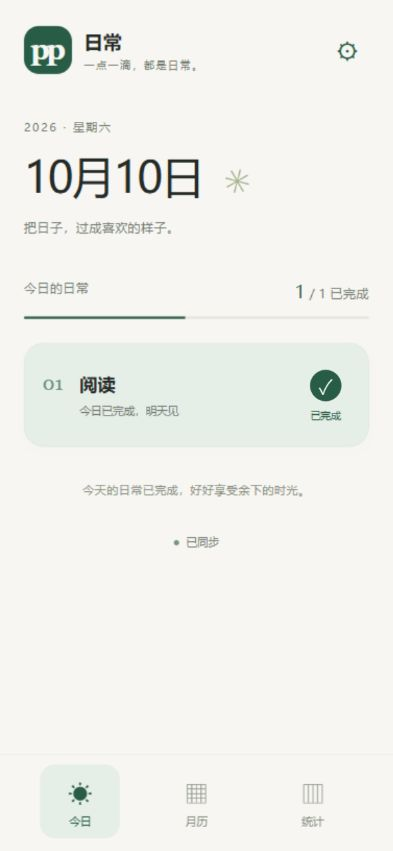
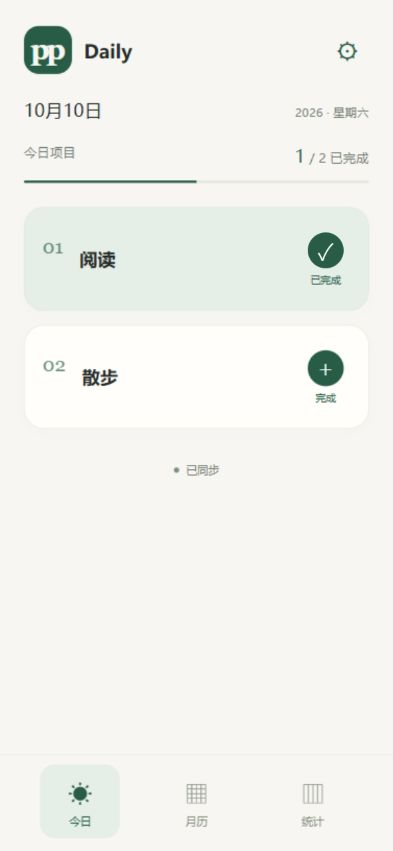
refactor: simplify pages and rename app to pp Daily

diff --git a/frontend/src/style.css b/frontend/src/style.css
@@ -1,4 +1,4 @@
-:root{font-family:-apple-system,BlinkMacSystemFont,"PingFang SC","Microsoft YaHei",sans-serif;color:#252a27;background:#f7f6f2;font-synthesis:none;--green:#285c47;--muted:#747d73;--line:#e5e7df}*{box-sizing:border-box}body{margin:0}button,input,select{font:inherit}button,a,label.file-button{-webkit-tap-highlight-color:transparent}button{cursor:pointer;border:1px solid var(--line);border-radius:12px;background:transparent;color:var(--green);padding:10px 14px;min-height:44px}button:disabled{cursor:default;opacity:.5}button:focus-visible,a:focus-visible,input:focus-visible,select:focus-visible{outline:3px solid #be9b60;outline-offset:3px}button:hover:not(:disabled){background:#e5eee7}h1,h2,p{margin:0}h2{font-size:18px;font-weight:600}a{color:inherit;text-decoration:none}.app-shell{max-width:560px;margin:auto;padding:calc(26px + env(safe-area-inset-top)) 24px calc(112px + env(safe-area-inset-bottom));min-height:100dvh}.brand{display:flex;justify-content:space-between;align-items:center;margin-bottom:46px}.brand a{display:flex;gap:12px;align-items:center;font-size:19px;font-weight:600}.mark{width:48px;height:48px;display:grid;place-items:center;background:var(--green);color:#f7f6f2;border-radius:15px;font-family:Georgia,serif;font-size:29px;letter-spacing:-3px;padding-right:3px}.brand-note{display:block;font-size:10px;letter-spacing:2px;font-weight:400;color:var(--muted);margin-top:4px}.icon-button{border:none;font-size:26px;padding:4px;min-width:44px}.eyebrow{font-size:11px;letter-spacing:2px;color:var(--muted);margin-bottom:12px}.date-heading h1{font-size:44px;font-weight:500;letter-spacing:-2px}.little-leaf{font-size:33px;color:#a4b18a;margin-left:20px;display:inline-block;transform:rotate(15deg)}.subtle{color:var(--muted);font-size:13px;line-height:1.8}.date-heading .subtle{margin-top:12px}.progress-note{margin-top:40px;display:flex;justify-content:space-between;font-size:13px;color:var(--muted)}.progress-note b{color:var(--green);font-size:18px;font-weight:500}.progress-line{height:3px;background:var(--line);margin:13px 0 24px;border-radius:5px;overflow:hidden}.progress-line i{height:100%;display:block;background:var(--green);transition:width .3s}.daily-list{display:grid;gap:14px}.habit-card{display:flex;gap:16px;align-items:center;background:#fffefa;border:1px solid #e9e9df;border-radius:20px;padding:23px 18px;min-height:104px;box-shadow:0 4px 12px #28382b03;transition:background .2s}.habit-card.completed{background:#e5eee7;border-color:#dce7dd}.habit-number{font-family:Georgia,serif;font-size:20px;color:var(--habit-color);opacity:.7;align-self:flex-start;padding-top:4px}.habit-title{flex:1;min-width:0}.habit-title h2{overflow-wrap:anywhere}.habit-title p{color:var(--muted);font-size:11px;margin-top:8px}.complete-button{border:none;color:var(--green);display:flex;flex-direction:column;align-items:center;gap:5px;padding:0 4px;font-size:10px;min-width:50px}.complete-button span{background:var(--habit-color);color:white;border-radius:50%;display:grid;place-items:center;width:36px;height:36px;font-size:23px;font-weight:300}.complete-button:disabled{opacity:1}.completed .complete-button span{animation:check .25s ease}.end-note{text-align:center;font-size:12px;color:#8a9184;line-height:1.9;margin:32px 0}.sync-status{font-size:11px;color:var(--muted);display:flex;gap:7px;align-items:center;justify-content:center;margin-top:34px;overflow-wrap:anywhere}.sync-status i{width:5px;height:5px;background:#79957b;border-radius:100%;flex-shrink:0}.sync-status i.offline{background:#b38d54}nav{position:fixed;bottom:0;left:50%;transform:translateX(-50%);width:100%;max-width:560px;background:#f7f6f2f5;border-top:1px solid var(--line);display:flex;justify-content:space-around;padding:10px 22px calc(13px + env(safe-area-inset-bottom));backdrop-filter:blur(12px)}nav button{display:flex;flex-direction:column;align-items:center;border:none;font-size:11px;color:#8a9184;gap:5px;width:80px;min-height:58px}nav button span{font-size:24px;font-weight:300}nav button.selected{color:var(--green);background:#e5eee7;border-radius:15px}.page-heading{margin-bottom:30px}.page-heading h1{font-size:29px;font-weight:500;margin-bottom:12px}.selector{font-size:12px;color:var(--muted);display:block;margin-bottom:20px}select{appearance:auto;display:block;width:100%;padding:13px 16px;border:1px solid var(--line);border-radius:14px;background:#fffefa;color:var(--green);font-size:16px;margin-top:8px}.calendar-paper,.management-paper{background:#fffefa;border:1px solid var(--line);border-radius:22px;padding:20px;margin-bottom:18px}.month-heading{display:flex;justify-content:space-between;align-items:center;margin-bottom:22px}.month-heading h2{font-size:17px}.calendar-grid{display:grid;grid-template-columns:repeat(7,minmax(0,1fr));gap:8px 4px}.weekdays{margin-bottom:14px;text-align:center;font-size:11px;color:var(--muted)}.day-cell{position:relative;aspect-ratio:1;display:grid;place-items:center;font-size:14px;border:1px solid #e5e7df;border-radius:50%;margin:2px;color:#667366}.day-cell:has(span:empty){border:0}.day-cell.checked{background:var(--green);color:#fff;border-color:var(--green)}.day-cell.muted{border-color:transparent;color:#c5c8bf}.day-cell.today{outline:1px solid #b28d5a;outline-offset:2px}.day-cell small{position:absolute;bottom:1px;font-size:8px}.legend{display:flex;justify-content:center;gap:16px;font-size:10px;color:var(--green);margin-top:24px}.stats-grid{display:grid;grid-template-columns:1fr 1fr;gap:14px}.stats-grid article{padding:25px 18px;background:#fffefa;border:1px solid var(--line);border-radius:20px}.stats-grid article:nth-child(3){background:#e5eee7}.stats-grid p{font-size:12px;color:var(--muted)}.stats-grid strong{font-family:Georgia,serif;font-size:46px;font-weight:400;color:var(--green);display:block;margin:15px 0 12px}.stats-grid small{font-family:inherit;font-size:12px;margin-left:8px}.stats-grid span{font-size:10px;color:var(--muted)}.management-paper h2{margin-bottom:18px}.management-paper h2 small{font-size:12px;color:var(--muted);margin-left:8px}form label{display:block;color:var(--muted);font-size:12px;margin-bottom:15px}input:not([type=color]):not([type=file]){width:100%;display:block;margin-top:8px;padding:13px;background:var(--bg);border:1px solid var(--line);border-radius:12px;color:#252a27;font-size:16px}.color-row{display:flex;justify-content:space-between;align-items:center}input[type=color]{width:60px;height:36px;border:none;background:none}.primary{background:var(--green);color:white;width:100%;margin-bottom:12px}.small{font-size:11px;margin-top:12px}.project-row{border-top:1px solid var(--line);padding:16px 0;display:flex;flex-direction:column;gap:10px}.project-row>div{display:flex;align-items:center;gap:8px}.project-row b{font-size:14px;overflow-wrap:anywhere}.project-row small{color:var(--muted);font-size:11px}.color-dot{width:9px;height:9px;border-radius:50%;flex-shrink:0}.row-actions{justify-content:flex-end}.row-actions button{padding:6px 10px;font-size:12px}.backup-actions{display:flex;gap:10px;margin-top:18px;flex-wrap:wrap}.backup-actions button,.file-button{font-size:12px}.file-button{border:1px solid var(--line);border-radius:12px;display:flex;align-items:center;padding:10px 14px;min-height:44px;position:relative;overflow:hidden;cursor:pointer}.file-button input{position:absolute;inset:0;opacity:0;width:100%;cursor:pointer}.notice,.error{background:#f5e8d5;color:#77532d;border-radius:15px;padding:16px;font-size:13px;margin-bottom:20px}.notice p{margin:8px 0}.notice button{margin:4px;font-size:12px}.empty{text-align:center;padding:50px 12px}.empty>span{color:#a4b18a;font-size:42px}.empty h2{margin:16px 0}.empty p{color:var(--muted);font-size:13px;margin-bottom:20px}@keyframes check{from{transform:scale(.7)}to{transform:scale(1)}}@media(max-width:370px){.app-shell{padding-left:16px;padding-right:16px}.habit-card{gap:12px;padding:20px 14px}.calendar-paper{padding:15px}.stats-grid article{padding:22px 14px}.day-cell{font-size:12px}}@media(prefers-reduced-motion:reduce){*{animation:none!important;transition:none!important}}
+:root{font-family:-apple-system,BlinkMacSystemFont,"PingFang SC","Microsoft YaHei",sans-serif;color:#252a27;background:#f7f6f2;font-synthesis:none;--green:#285c47;--muted:#747d73;--line:#e5e7df}*{box-sizing:border-box}body{margin:0}button,input,select{font:inherit}button,a,label.file-button{-webkit-tap-highlight-color:transparent}button{cursor:pointer;border:1px solid var(--line);border-radius:12px;background:transparent;color:var(--green);padding:10px 14px;min-height:44px}button:disabled{cursor:default;opacity:.5}button:focus-visible,a:focus-visible,input:focus-visible,select:focus-visible{outline:3px solid #be9b60;outline-offset:3px}button:hover:not(:disabled){background:#e5eee7}h1,h2,p{margin:0}h2{font-size:18px;font-weight:600}a{color:inherit;text-decoration:none}.app-shell{max-width:560px;margin:auto;padding:calc(26px + env(safe-area-inset-top)) 24px calc(112px + env(safe-area-inset-bottom));min-height:100dvh}.brand{display:flex;justify-content:space-between;align-items:center;margin-bottom:24px}.brand a{display:flex;gap:12px;align-items:center;font-size:19px;font-weight:600}.mark{width:48px;height:48px;display:grid;place-items:center;background:var(--green);color:#f7f6f2;border-radius:15px;font-family:Georgia,serif;font-size:29px;letter-spacing:-3px;padding-right:3px}.icon-button{border:none;font-size:26px;padding:4px;min-width:44px}.date-heading{display:flex;align-items:baseline;justify-content:space-between;gap:12px}.date-heading h1{font-size:18px;font-weight:500;letter-spacing:0}.subtle{color:var(--muted);font-size:13px;line-height:1.8}.date-heading .subtle{font-size:12px;white-space:nowrap}.progress-note{margin-top:20px;display:flex;justify-content:space-between;font-size:13px;color:var(--muted)}.progress-note b{color:var(--green);font-size:18px;font-weight:500}.progress-line{height:3px;background:var(--line);margin:13px 0 24px;border-radius:5px;overflow:hidden}.progress-line i{height:100%;display:block;background:var(--green);transition:width .3s}.daily-list{display:grid;gap:14px}.habit-card{display:flex;gap:16px;align-items:center;background:#fffefa;border:1px solid #e9e9df;border-radius:20px;padding:23px 18px;min-height:104px;box-shadow:0 4px 12px #28382b03;transition:background .2s}.habit-card.completed{background:#e5eee7;border-color:#dce7dd}.habit-number{font-family:Georgia,serif;font-size:20px;color:var(--habit-color);opacity:.7;align-self:flex-start;padding-top:4px}.habit-title{flex:1;min-width:0}.habit-title h2{overflow-wrap:anywhere}.complete-button{border:none;color:var(--green);display:flex;flex-direction:column;align-items:center;gap:5px;padding:0 4px;font-size:10px;min-width:50px}.complete-button span{background:var(--habit-color);color:white;border-radius:50%;display:grid;place-items:center;width:36px;height:36px;font-size:23px;font-weight:300}.complete-button:disabled{opacity:1}.completed .complete-button span{animation:check .25s ease}.end-note{text-align:center;font-size:12px;color:#8a9184;line-height:1.9;margin:32px 0}.sync-status{font-size:11px;color:var(--muted);display:flex;gap:7px;align-items:center;justify-content:center;margin-top:34px;overflow-wrap:anywhere}.sync-status i{width:5px;height:5px;background:#79957b;border-radius:100%;flex-shrink:0}.sync-status i.offline{background:#b38d54}nav{position:fixed;bottom:0;left:50%;transform:translateX(-50%);width:100%;max-width:560px;background:#f7f6f2f5;border-top:1px solid var(--line);display:flex;justify-content:space-around;padding:10px 22px calc(13px + env(safe-area-inset-bottom));backdrop-filter:blur(12px)}nav button{display:flex;flex-direction:column;align-items:center;border:none;font-size:11px;color:#8a9184;gap:5px;width:80px;min-height:58px}nav button span{font-size:24px;font-weight:300}nav button.selected{color:var(--green);background:#e5eee7;border-radius:15px}.page-heading{margin-bottom:30px}.page-heading h1{font-size:29px;font-weight:500;margin-bottom:12px}.selector{font-size:12px;color:var(--muted);display:block;margin-bottom:20px}select{appearance:auto;display:block;width:100%;padding:13px 16px;border:1px solid var(--line);border-radius:14px;background:#fffefa;color:var(--green);font-size:16px;margin-top:8px}.calendar-paper,.management-paper{background:#fffefa;border:1px solid var(--line);border-radius:22px;padding:20px;margin-bottom:18px}.month-heading{display:flex;justify-content:space-between;align-items:center;margin-bottom:22px}.month-heading h2{font-size:17px}.calendar-grid{display:grid;grid-template-columns:repeat(7,minmax(0,1fr));gap:8px 4px}.weekdays{margin-bottom:14px;text-align:center;font-size:11px;color:var(--muted)}.day-cell{position:relative;aspect-ratio:1;display:grid;place-items:center;font-size:14px;border:1px solid #e5e7df;border-radius:50%;margin:2px;color:#667366}.day-cell:has(span:empty){border:0}.day-cell.checked{background:var(--green);color:#fff;border-color:var(--green)}.day-cell.muted{border-color:transparent;color:#c5c8bf}.day-cell.today{outline:1px solid #b28d5a;outline-offset:2px}.day-cell small{position:absolute;bottom:1px;font-size:8px}.legend{display:flex;justify-content:center;gap:16px;font-size:10px;color:var(--green);margin-top:24px}.stats-grid{display:grid;grid-template-columns:1fr 1fr;gap:14px}.stats-grid article{padding:25px 18px;background:#fffefa;border:1px solid var(--line);border-radius:20px}.stats-grid article:nth-child(3){background:#e5eee7}.stats-grid p{font-size:12px;color:var(--muted)}.stats-grid strong{font-family:Georgia,serif;font-size:46px;font-weight:400;color:var(--green);display:block;margin:15px 0 12px}.stats-grid small{font-family:inherit;font-size:12px;margin-left:8px}.management-paper h2{margin-bottom:18px}.management-paper h2 small{font-size:12px;color:var(--muted);margin-left:8px}form label{display:block;color:var(--muted);font-size:12px;margin-bottom:15px}input:not([type=color]):not([type=file]){width:100%;display:block;margin-top:8px;padding:13px;background:var(--bg);border:1px solid var(--line);border-radius:12px;color:#252a27;font-size:16px}.color-row{display:flex;justify-content:space-between;align-items:center}input[type=color]{width:60px;height:36px;border:none;background:none}.primary{background:var(--green);color:white;width:100%;margin-bottom:12px}.small{font-size:11px;margin-top:12px}.project-row{border-top:1px solid var(--line);padding:16px 0;display:flex;flex-direction:column;gap:10px}.project-row>div{display:flex;align-items:center;gap:8px}.project-row b{font-size:14px;overflow-wrap:anywhere}.project-row small{color:var(--muted);font-size:11px}.color-dot{width:9px;height:9px;border-radius:50%;flex-shrink:0}.row-actions{justify-content:flex-end}.row-actions button{padding:6px 10px;font-size:12px}.backup-actions{display:flex;gap:10px;margin-top:18px;flex-wrap:wrap}.backup-actions button,.file-button{font-size:12px}.file-button{border:1px solid var(--line);border-radius:12px;display:flex;align-items:center;padding:10px 14px;min-height:44px;position:relative;overflow:hidden;cursor:pointer}.file-button input{position:absolute;inset:0;opacity:0;width:100%;cursor:pointer}.notice,.error{background:#f5e8d5;color:#77532d;border-radius:15px;padding:16px;font-size:13px;margin-bottom:20px}.notice p{margin:8px 0}.notice button{margin:4px;font-size:12px}.empty{text-align:center;padding:50px 12px}.empty h2{margin:16px 0}.empty p{color:var(--muted);font-size:13px;margin-bottom:20px}@keyframes check{from{transform:scale(.7)}to{transform:scale(1)}}@media(max-width:370px){.app-shell{padding-left:16px;padding-right:16px}.habit-card{gap:12px;padding:20px 14px}.calendar-paper{padding:15px}.stats-grid article{padding:22px 14px}.day-cell{font-size:12px}}@media(prefers-reduced-motion:reduce){*{animation:none!important;transition:none!important}}
 :root{--bg:#f7f6f2}
 .app-shell{padding-left:max(24px,env(safe-area-inset-left));padding-right:max(24px,env(safe-area-inset-right))}
 nav{padding-left:max(22px,env(safe-area-inset-left));padding-right:max(22px,env(safe-area-inset-right))}

diff --git a/frontend/src/App.vue b/frontend/src/App.vue
@@ -66,25 +66,24 @@ onUnmounted(() => { clearInterval(timer); window.removeEventListener('online',wa
 
 <template>
   <div class="app-shell">
-    <header class="brand"><a href="#" @click.prevent="page='今日'" aria-label="pp日常首页"><span class="mark">pp</span><span>日常<span class="brand-note">一点一滴，都是日常。</span></span></a><button class="icon-button" @click="page='管理'" aria-label="管理">⚙</button></header>
+    <header class="brand"><a href="#" @click.prevent="page='今日'" aria-label="pp Daily 首页"><span class="mark">pp</span><span>Daily</span></a><button class="icon-button" @click="page='管理'" aria-label="管理">⚙</button></header>
     <main>
       <div v-if="conflict" class="notice"><strong>服务器数据已恢复</strong><p>先保存本地备份，再载入新的服务器数据。</p><button @click="exportLocal">导出本地备份</button><button @click="reset">重新载入</button></div>
       <p v-if="message" class="error" role="alert">{{ message }}</p>
       <template v-if="page==='今日'">
-        <section class="date-heading"><p class="eyebrow">{{ today.slice(0,4) }} · {{ weekday }}</p><h1>{{ dateText }}<span class="little-leaf">✳</span></h1><p class="subtle">把日子，过成喜欢的样子。</p></section>
-        <section class="progress-note"><span>今日的日常</span><span><b>{{ doneCount }}</b> / {{ active.length }} 已完成</span></section>
+        <section class="date-heading"><h1>{{ dateText }}</h1><p class="subtle">{{ today.slice(0,4) }} · {{ weekday }}</p></section>
+        <section class="progress-note"><span>今日项目</span><span><b>{{ doneCount }}</b> / {{ active.length }} 已完成</span></section>
         <div class="progress-line"><i :style="{width:(active.length ? doneCount / active.length * 100 : 0)+'%'}"></i></div>
         <section class="daily-list">
           <article v-for="(p,index) in active" :key="p.id" class="habit-card" :class="{completed:done(p.id)}" :style="{'--habit-color':p.color}">
-            <span class="habit-number">{{ String(index+1).padStart(2,'0') }}</span><div class="habit-title"><h2>{{ p.name }}</h2><p>{{ done(p.id) ? '今日已完成，明天见' : '今天，也为自己做一点' }}</p></div>
+            <span class="habit-number">{{ String(index+1).padStart(2,'0') }}</span><div class="habit-title"><h2>{{ p.name }}</h2></div>
             <button class="complete-button" :disabled="done(p.id) || working || !storageReady || conflict" @click="action(() => complete(p.id))" :aria-label="p.name + (done(p.id) ? '已完成' : '完成')"><span>{{ done(p.id) ? '✓' : '+' }}</span>{{ done(p.id) ? '已完成' : '完成' }}</button>
           </article>
         </section>
-        <section v-if="!active.length" class="empty"><span>✳</span><h2>从一件小事开始</h2><p>创建你的第一个日常项目。</p><button @click="page='管理'">添加项目</button></section>
-        <p v-else class="end-note">{{ doneCount === active.length ? '今天的日常已完成，好好享受余下的时光。' : '不用赶路，每天一点就好。' }}</p>
+        <section v-if="!active.length" class="empty"><h2>暂无项目</h2><p>创建你的第一个日常项目。</p><button @click="page='管理'">添加项目</button></section>
       </template>
       <template v-else-if="page==='月历' || page==='统计'">
-        <section class="page-heading"><p class="eyebrow">{{ page==='月历' ? 'DAY BY DAY' : 'LITTLE THINGS ADD UP' }}</p><h1>{{ page==='月历' ? '日子留下的痕迹' : '每一天，都算数' }}</h1><p class="subtle">{{ page==='月历' ? '回看一件事，慢慢成为日常。' : '小小的坚持，也值得被看见。' }}</p></section>
+        <section class="page-heading"><h1>{{ page }}</h1></section>
         <label class="selector">选择项目<select :value="project?.id || ''" @change="selected=($event.target as HTMLSelectElement).value" aria-label="选择项目"><option v-if="!projects.length" value="">暂无项目</option><option v-for="p in projects" :key="p.id" :value="p.id">{{ p.name }}{{ p.archived ? ' · 已归档' : '' }}</option></select></label>
         <section v-if="project && page==='月历'" class="calendar-paper">
           <div class="month-heading"><button class="icon-button" @click="shiftMonth(-1)" aria-label="上个月">‹</button><h2>{{ Number(month.slice(0,4)) }} 年 {{ Number(month.slice(5,7)) }} 月</h2><button class="icon-button" @click="shiftMonth(1)" aria-label="下个月">›</button></div>
@@ -92,15 +91,15 @@ onUnmounted(() => { clearInterval(timer); window.removeEventListener('online',wa
           <div class="calendar-grid"><div v-for="(day,index) in cells" :key="index" class="day-cell" :class="{checked:day && done(project.id,day), muted:day && !applicable(day), today:day===today}" :aria-label="day ? day + (done(project.id,day) ? ' 已完成' : applicable(day) ? ' 未完成' : ' 不适用') : day"><span>{{ day ? Number(day.slice(8)) : '' }}</span><small v-if="day && done(project.id,day)">✓</small></div></div>
           <div class="legend"><span>● 已完成</span><span>○ 未完成</span><span class="subtle">— 不适用</span></div>
         </section>
-        <section v-if="project && page==='统计'" class="stats-grid"><article v-for="(label,index) in statLabels" :key="label"><p>{{ label }}</p><strong>{{ stats[index] }}<small>天</small></strong><span>{{ ['每一步，都有留下','这个月的日常','慢慢来，继续就好','属于你的坚持'][index] }}</span></article></section>
+        <section v-if="project && page==='统计'" class="stats-grid"><article v-for="(label,index) in statLabels" :key="label"><p>{{ label }}</p><strong>{{ stats[index] }}<small>天</small></strong></article></section>
         <p v-if="project && page==='统计'" class="end-note">今天未完成时，当前连续天数算到昨天。<br>归档项目算到归档当天。</p>
         <p v-if="!project" class="empty">还没有项目，去管理页创建一个吧。</p>
       </template>
       <template v-else>
-        <section class="page-heading"><p class="eyebrow">MAKE IT YOURS</p><h1>整理你的日常</h1><p class="subtle">留一点空间，给真正想做的事。</p></section>
+        <section class="page-heading"><h1>管理</h1></section>
         <section class="management-paper"><h2>{{ editing ? '编辑项目' : '添加一个项目' }}</h2><form @submit.prevent="saveProject"><label>项目名称<input v-model="name" maxlength="40" required placeholder="例如：阅读、散步、学英语"></label><label class="color-row">项目颜色<input v-model="color" type="color" aria-label="项目颜色"></label><button class="primary" :disabled="working || conflict || !storageReady">{{ editing ? '保存修改' : '添加项目' }}</button><button v-if="editing" type="button" @click="editing='';name=''">取消编辑</button></form><p class="subtle small">项目管理需要连接服务器。</p></section>
         <section class="management-paper"><h2>我的项目 <small>{{ projects.length }}</small></h2><article v-for="(p,index) in projects" :key="p.id" class="project-row"><div><span class="color-dot" :style="{background:p.color}"></span><b>{{ p.name }}</b><small v-if="p.archived">已归档</small></div><div class="row-actions"><button :disabled="index===0 || working || conflict" @click="move(p,-1)" :aria-label="p.name+'上移'">↑</button><button :disabled="index===projects.length-1 || working || conflict" @click="move(p,1)" :aria-label="p.name+'下移'">↓</button><button v-if="!p.archived" :disabled="working || conflict" @click="edit(p)">编辑</button><button v-if="!p.archived" :disabled="working || conflict" @click="archive(p)">归档</button></div></article><p v-if="!projects.length" class="subtle">还没有项目。</p></section>
-        <section class="management-paper"><h2>把日常好好保存</h2><p class="subtle">完整备份包含此设备尚未同步的记录。<br>恢复会替换服务器数据，并自动保留恢复前备份。</p><div class="backup-actions"><button :disabled="!storageReady || !local.snapshot.generation" @click="exportLocal">导出完整备份 ↗</button><label class="file-button">恢复备份<input type="file" accept=".json,application/json" :disabled="working || conflict" @change="restore"></label></div></section>
+        <section class="management-paper"><h2>数据备份</h2><p class="subtle">完整备份包含此设备尚未同步的记录。<br>恢复会替换服务器数据，并自动保留恢复前备份。</p><div class="backup-actions"><button :disabled="!storageReady || !local.snapshot.generation" @click="exportLocal">导出完整备份 ↗</button><label class="file-button">恢复备份<input type="file" accept=".json,application/json" :disabled="working || conflict" @change="restore"></label></div></section>
         <section class="management-paper"><h2>连接与保存</h2><p>{{ status }}</p><p class="subtle">{{ local.pending.length }} 条待同步 · Asia/Shanghai</p><button :disabled="busy || conflict" @click="sync">立即同步</button><p class="subtle small">Safari → 分享 → 添加到主屏幕。<br>首次加载和同步需要私人网络连接；之后可以离线完成当天项目。</p></section>
       </template>
       <div class="sync-status" role="status"><i :class="{offline:local.pending.length || conflict}"></i>{{ busy ? '同步中…' : status }}</div>

diff --git a/frontend/index.html b/frontend/index.html
@@ -1,2 +1,2 @@
 <!doctype html>
-<html lang="zh-CN"><head><meta charset="UTF-8"><meta name="viewport" content="width=device-width, initial-scale=1, viewport-fit=cover"><meta name="theme-color" content="#285C47"><meta name="apple-mobile-web-app-capable" content="yes"><meta name="apple-mobile-web-app-title" content="pp日常"><meta name="apple-mobile-web-app-status-bar-style" content="default"><link rel="manifest" href="/manifest.webmanifest"><link rel="apple-touch-icon" href="/icon-180.png"><link rel="icon" href="/icon.svg"><title>pp日常</title></head><body><div id="app"></div><script type="module" src="/src/main.ts"></script></body></html>
+<html lang="zh-CN"><head><meta charset="UTF-8"><meta name="viewport" content="width=device-width, initial-scale=1, viewport-fit=cover"><meta name="theme-color" content="#285C47"><meta name="apple-mobile-web-app-capable" content="yes"><meta name="apple-mobile-web-app-title" content="pp Daily"><meta name="apple-mobile-web-app-status-bar-style" content="default"><link rel="manifest" href="/manifest.webmanifest"><link rel="apple-touch-icon" href="/icon-180.png"><link rel="icon" href="/icon.svg"><title>pp Daily</title></head><body><div id="app"></div><script type="module" src="/src/main.ts"></script></body></html>

diff --git a/frontend/src/store.ts b/frontend/src/store.ts
@@ -65,5 +65,5 @@ export async function reloadServer() { await lock(async () => save({snapshot:awa
 export function exportLocal() {
   const blob = new Blob([JSON.stringify(local.value.snapshot,null,2)],{type:'application/json'})
   const url = URL.createObjectURL(blob), link = document.createElement('a')
-  link.href = url; link.download = `pp日常-${dayAt()}.json`; link.click(); setTimeout(() => URL.revokeObjectURL(url),60000)
+  link.href = url; link.download = `pp Daily-${dayAt()}.json`; link.click(); setTimeout(() => URL.revokeObjectURL(url),60000)
 }

diff --git a/backend/app.py b/backend/app.py
@@ -140,7 +140,7 @@ def validate_completion(record, project):
         raise HTTPException(422, '该日期不在项目有效范围内')
 
 
-app = FastAPI(title='pp日常', docs_url=None, redoc_url=None)
+app = FastAPI(title='pp Daily', docs_url=None, redoc_url=None)
 
 
 @app.get('/api/state')

diff --git a/README.en.md b/README.en.md
@@ -1,29 +1,10 @@
-# pp日常 · pp Daily
+# pp Daily
 
 [中文](README.md) | [English](README.en.md)
 
 [![CI](https://github.com/PPPPeric/pp-daily/actions/workflows/ci.yml/badge.svg)](https://github.com/PPPPeric/pp-daily/actions/workflows/ci.yml)
 
 A personal daily check-in PWA with a warm ivory and forest-green interface. Develop on Windows, host on a Mac mini, and use it privately on your iPhone through Tailscale. No application account or login is required.
-
-<img src="docs/images/iphone15-today.png" alt="Today screen with sample data" width="300">
-
-## Device support
-
-The first release targets **iPhone 15 with iOS 17+**, using Safari or a Home Screen PWA, primarily in portrait orientation. Development layout checks use a 393 × 852 CSS-pixel viewport and a basic landscape check. The layout remains responsive for Windows previews; other phone models have no dedicated compatibility guarantee. There is no device lock or fixed physical-pixel rendering.
-
-The UI accounts for safe areas, dynamic viewport height, landscape side insets, and touch controls of at least 44 CSS pixels. Browser layout checks do not establish real-device compatibility: follow the [iPhone 15 acceptance checklist](docs/iphone15.md). **The application UI is Chinese; the project documentation is bilingual.**
-
-## Features and rules
-
-- **Today:** complete each project once per day. Doing nothing means incomplete. No cancellation, backdating, duration tracking, pause, or resume.
-- **Calendar:** a read-only monthly calendar for one selected project. Future dates, dates before creation, and dates after archival are not applicable.
-- **Statistics:** total completed days, completed days this month, current streak, and longest streak. No completion rates or trend charts.
-- **Management:** create, rename, choose a color, reorder, or permanently archive projects while preserving history. Management requires a connection to the server.
-- **Offline:** previously loaded pages and check-ins remain available through a Service Worker and IndexedDB. Pending records synchronize on launch, foreground return, connectivity restoration, and a 30-second foreground retry.
-- **Backup:** export a complete JSON snapshot, including this device's unsynced records. Restore replaces the server dataset and automatically saves a pre-restore backup.
-
-All dates use `Asia/Shanghai`. Before today's completion, the current streak is calculated through yesterday. Archived projects use their archive date as the streak endpoint. Valid offline records from the archive date can still synchronize; later dates cannot be completed. Background synchronization while the app is closed is not promised.
 
 ## Architecture
 
@@ -37,6 +18,25 @@ iPhone 15 PWA (Vue 3 + TypeScript)
 ```
 
 The frontend and API share one origin. Project/day uniqueness makes uploads idempotent. Restore changes the dataset generation so stale clients cannot silently upload old records into restored data.
+
+## Device support
+
+The first release targets **iPhone 15 with iOS 17+**, using Safari or a Home Screen PWA, primarily in portrait orientation. Development layout checks use a 393 × 852 CSS-pixel viewport and a basic landscape check. The layout remains responsive for Windows previews; other phone models have no dedicated compatibility guarantee. There is no device lock or fixed physical-pixel rendering.
+
+The UI accounts for safe areas, dynamic viewport height, landscape side insets, and touch controls of at least 44 CSS pixels. Browser layout checks do not establish real-device compatibility: follow the [iPhone 15 acceptance checklist](docs/iphone15.md). **The application UI is Chinese; the project documentation is bilingual.**
+
+<img src="docs/images/iphone15-today.png" alt="Today screen with sample data" width="300">
+
+## Features and rules
+
+- **Today:** complete each project once per day. Doing nothing means incomplete. No cancellation, backdating, duration tracking, pause, or resume.
+- **Calendar:** a read-only monthly calendar for one selected project. Future dates, dates before creation, and dates after archival are not applicable.
+- **Statistics:** total completed days, completed days this month, current streak, and longest streak. No completion rates or trend charts.
+- **Management:** create, rename, choose a color, reorder, or permanently archive projects while preserving history. Management requires a connection to the server.
+- **Offline:** previously loaded pages and check-ins remain available through a Service Worker and IndexedDB. Pending records synchronize on launch, foreground return, connectivity restoration, and a 30-second foreground retry.
+- **Backup:** export a complete JSON snapshot, including this device's unsynced records. Restore replaces the server dataset and automatically saves a pre-restore backup.
+
+All dates use `Asia/Shanghai`. Before today's completion, the current streak is calculated through yesterday. Archived projects use their archive date as the streak endpoint. Valid offline records from the archive date can still synchronize; later dates cannot be completed. Background synchronization while the app is closed is not promised.
 
 ## Windows development
 
@@ -106,7 +106,7 @@ Frontend dependencies are locked in `package-lock.json`; direct Python dependenc
    curl http://127.0.0.1:8000/api/state
    ```
 
-6. Connect Tailscale on the iPhone, open the private HTTPS address in Safari, and choose Share → Add to Home Screen. The default name is `pp日常`, with a forest-green double-p icon.
+6. Connect Tailscale on the iPhone, open the private HTTPS address in Safari, and choose Share → Add to Home Screen. The default name is `pp Daily`, with a forest-green double-p icon.
 
 Public GitHub source code is separate from the private running service. The backend has no application authentication and must remain behind private network access controls. GitHub Pages cannot provide this application's FastAPI/SQLite backend.
 

diff --git a/README.md b/README.md
@@ -1,10 +1,23 @@
-# pp日常
+# pp Daily
 
 [中文](README.md) | [English](README.en.md)
 
 [![CI](https://github.com/PPPPeric/pp-daily/actions/workflows/ci.yml/badge.svg)](https://github.com/PPPPeric/pp-daily/actions/workflows/ci.yml)
 
-给自己的日常留一点痕迹。iPhone 优先的单人 PWA：米白与墨绿、双小写 p 图标，无 App 登录。
+面向 iPhone 15 的个人每日打卡 PWA，采用 Vue 3、FastAPI 和 SQLite，支持离线记录、私人网络同步和备份恢复。
+
+## 项目架构
+
+```text
+iPhone 15 PWA（Vue 3 + TypeScript）
+  ├─ IndexedDB：本地数据副本和待同步完成记录
+  └─ Tailscale 私人 HTTPS
+       └─ Mac mini：FastAPI（127.0.0.1:8000）
+            ├─ 前端静态文件
+            └─ SQLite：项目、完成记录和备份
+```
+
+前端和 API 使用同一地址。完成操作先写入 IndexedDB，联网后同步至 SQLite；项目与日期的唯一键避免重复计数。恢复备份会更换数据版本，阻止旧设备将待同步记录写回恢复后的数据库。Windows 用于开发，Mac mini 提供持续运行的私人服务。
 
 ## 设备支持
 
@@ -12,7 +25,7 @@
 
 界面处理动态高度、顶部和底部安全区域、横屏左右安全区及至少 44 CSS 像素的操作目标。浏览器尺寸检查不等于 iPhone 真机验证；真机验收清单见 [iPhone 15 验收说明](docs/iphone15.md)。界面目前为中文，英文支持指项目文档。
 
-<img src="docs/images/iphone15-today.png" alt="pp日常今日页面，示例数据" width="300">
+<img src="docs/images/iphone15-today.png" alt="pp Daily今日页面，示例数据" width="300">
 
 ## 功能
 
@@ -62,7 +75,7 @@ npm run build
 3. 在 Mac 项目目录执行 `bash scripts/install-macos.sh`。该脚本构建前端并安装两个用户级 LaunchAgent：服务自动重启；每天 03:00 做 SQLite 一致性备份，保留最新 30 份。用户登录后运行，机器重启后也需用户登录。
 4. 执行 `tailscale serve --bg http://127.0.0.1:8000`，按照 Tailscale 提示启用 tailnet HTTPS，使用命令返回的固定 `https://机器名.tailnet名.ts.net` 地址。运行 `tailscale serve status` 核查。只使用 Serve；不得开启 Funnel 或路由器公网端口转发。
 5. 关闭 Mac 自动睡眠并保持联网。检查 `data/logs/`，确认服务与定时备份正常。运行 `curl http://127.0.0.1:8000/api/state` 验证接口。
-6. iPhone 打开 Tailscale，再用 Safari 打开固定 HTTPS 地址；分享 → 添加到主屏幕，名称默认「pp日常」。应看到墨绿双 p 图标。
+6. iPhone 打开 Tailscale，再用 Safari 打开固定 HTTPS 地址；分享 → 添加到主屏幕，名称默认「pp Daily」。应看到墨绿双 p 图标。
 
 Tailscale Serve 官方说明：https://tailscale.com/docs/reference/tailscale-cli/serve
 本地后端只监听 127.0.0.1，不包含登录和公网防护；访问控制由 tailnet 权限负责。

diff --git a/SECURITY.md b/SECURITY.md
@@ -2,7 +2,7 @@
 
 ## Intended deployment
 
-pp日常 is an unauthenticated, single-user service for private Tailscale access. Run FastAPI on `127.0.0.1` behind Tailscale Serve HTTPS and restrict tailnet access to your own devices. Public source code does not mean the running service should be public. Do not enable Funnel, expose the port to the Internet, or use GitHub Pages as the backend.
+pp Daily is an unauthenticated, single-user service for private Tailscale access. Run FastAPI on `127.0.0.1` behind Tailscale Serve HTTPS and restrict tailnet access to your own devices. Public source code does not mean the running service should be public. Do not enable Funnel, expose the port to the Internet, or use GitHub Pages as the backend.
 
 本服务没有应用登录，只适合本人设备通过 Tailscale 私人 HTTPS 访问。后端监听本机，限制 tailnet 访问权限；公开的是源代码，不是个人打卡数据或服务入口。
 

diff --git a/docs/VERIFICATION.md b/docs/VERIFICATION.md
@@ -24,3 +24,11 @@
 - 仓库内的页面图片使用人工测试数据；数据库、备份、凭据、依赖目录和构建输出不上传。
 
 以上为桌面浏览器和本机测试结果，仍未执行 iPhone 15 或 Mac mini 的真机验收。GitHub Actions 的在线执行结果以仓库 Actions 页面为准。
+
+## 页面精简与英文品牌
+
+- 全部页面移除装饰性标语，保留功能名称、状态、操作说明和统计口径。
+- 应用名称、浏览器标题、主屏幕名称和备份文件前缀统一为 `pp Daily`；功能界面仍为中文。
+- 今日日期从 44px 缩小为 18px；减少头部留白，项目名称与完成操作优先展示。
+- 393 × 852 浏览器复查无横向溢出，实测日期字号 18px，第一张项目卡片顶部约 208px。
+- README 中英文版本在简介后介绍架构，更新示例截图；生产构建及 TypeScript 检查通过。
